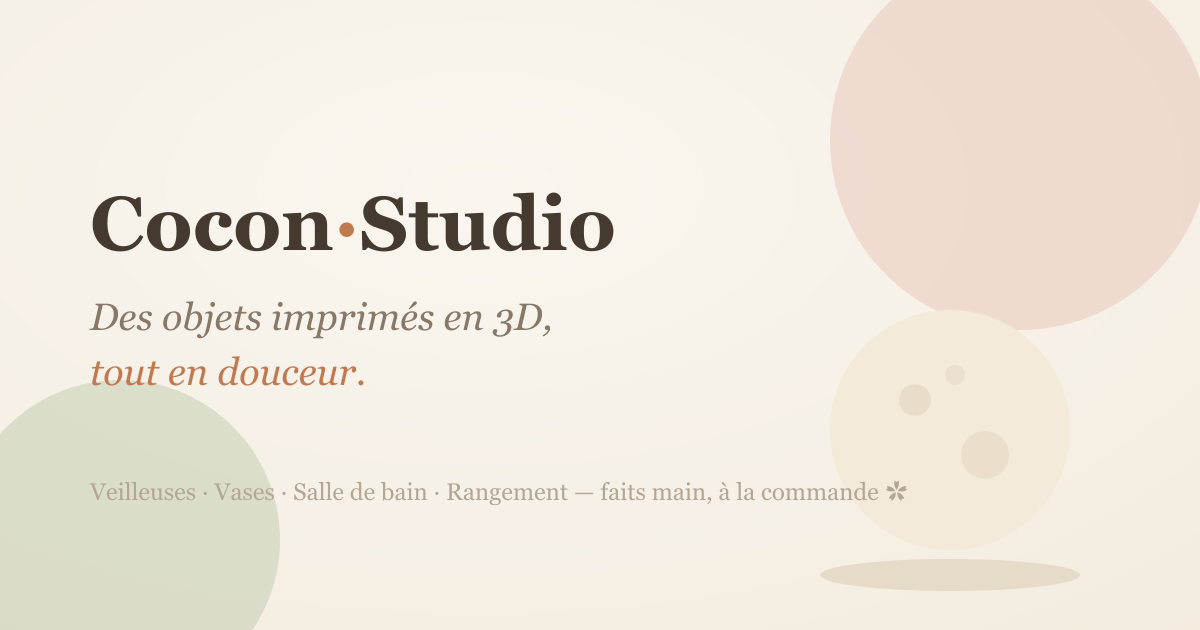
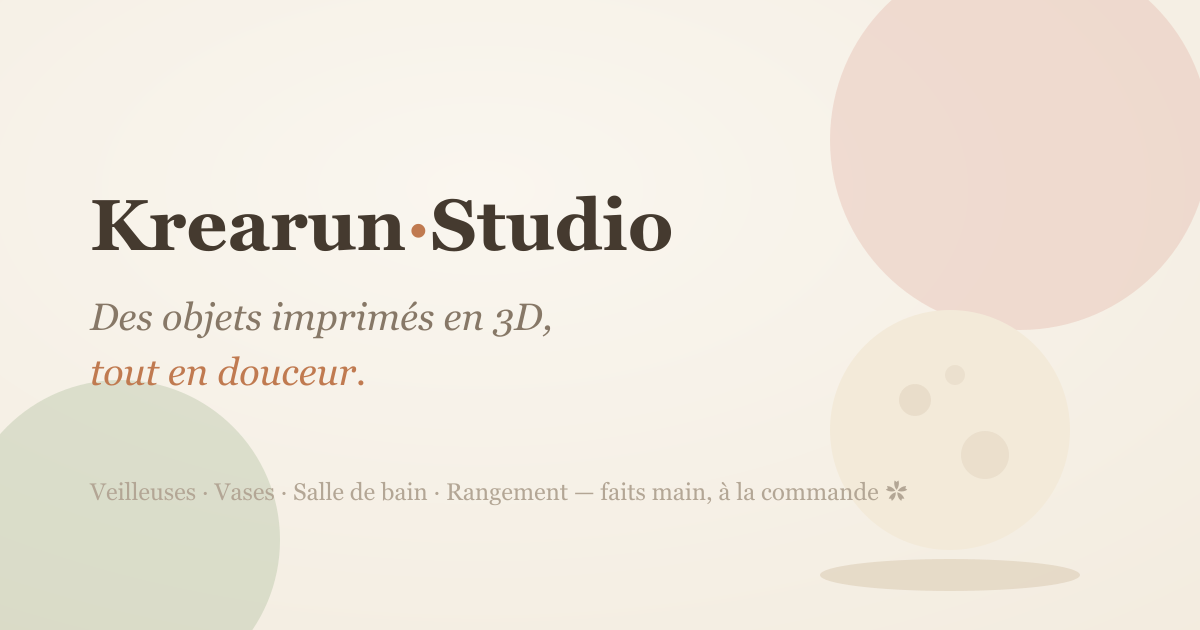
feat: renommage complet Cocon Studio → Krearun Studio
- Logo navbar/admin/login, metadata, Open Graph (og.png régénérée),
  e-mails, CGV, mentions légales, README, package.json
- Jeux de mots « cocon » adaptés (studio/atelier), 404, page à-propos
- Avis clients de l'accueil : produits réels au lieu des ex-démos
- Clés techniques renommées (cookie krearun_admin, localStorage panier
  et calculateur) — invalide les sessions/paniers de dev, sans impact prod
- Réglages PocketBase : store_name Krearun Studio, e-mail de contact mis
  à jour, lien Instagram vidé (à renseigner dans l'admin)

Changed region(s): [[0.0617, 0.3016, 0.5858, 0.4222]]

diff --git a/app/(site)/page.tsx b/app/(site)/page.tsx
@@ -7,19 +7,19 @@ export const dynamic = "force-dynamic";
 
 const avis = [
   {
-    text: "La veilleuse lune de ma fille est devenue son doudou lumineux. La matière est incroyablement douce, on sent le fait-main.",
+    text: "La lampe plissée trône sur mon buffet et tout le monde me demande d'où elle vient. La lumière du soir est d'une douceur incroyable.",
     author: "Camille R.",
-    product: "Veilleuse Lune",
+    product: "Lampe Plissée Trépied",
   },
   {
     text: "Emballage adorable, petit mot manuscrit, et le vase est encore plus beau qu'en photo. On sent l'amour du détail.",
     author: "Mathieu L.",
-    product: "Vase Ondulé",
+    product: "Vase Pétale",
   },
   {
-    text: "Mon bureau respire enfin. L'organiseur Dune est à la fois beau et malin, et les couleurs sont d'une douceur rare.",
+    text: "Le set Rivage a transformé notre salle de bain : tout est rangé, et les stries cachent vraiment les traces d'eau. Malin et beau.",
     author: "Inès B.",
-    product: "Organiseur Dune",
+    product: "Set Salle de Bain Rivage",
   },
 ];
 
@@ -227,7 +227,7 @@ export default async function HomePage() {
                 <br className="hidden sm:block" /> et beaucoup de patience.
               </h2>
               <p className="mt-5 max-w-lg leading-relaxed text-ink-soft">
-                Cocon Studio est né dans un coin de salon, entre une bobine de
+                Krearun Studio est né dans un coin de salon, entre une bobine de
                 filament crème et une tasse de thé. Chaque objet est dessiné,
                 imprimé, poncé puis emballé à la main. On fabrique lentement, en
                 petites quantités — parce que les jolies choses prennent le
@@ -244,7 +244,7 @@ export default async function HomePage() {
               {/* eslint-disable-next-line @next/next/no-img-element */}
               <img
                 src="/products/atelier.svg"
-                alt="L'atelier Cocon Studio"
+                alt="L'atelier Krearun Studio"
                 className="aspect-square w-full object-cover"
               />
             </div>

diff --git a/app/(site)/a-propos/page.tsx b/app/(site)/a-propos/page.tsx
@@ -4,7 +4,7 @@ import type { Metadata } from "next";
 export const metadata: Metadata = {
   title: "Notre atelier",
   description:
-    "L'histoire de Cocon Studio : un petit atelier familial d'impression 3D, des objets doux fabriqués lentement et à la commande.",
+    "L'histoire de Krearun Studio : un petit atelier familial d'impression 3D, des objets doux fabriqués lentement et à la commande.",
 };
 
 export default function AProposPage() {
@@ -14,7 +14,7 @@ export default function AProposPage() {
         Notre histoire
       </p>
       <h1 className="font-display text-4xl font-semibold leading-tight tracking-tight sm:text-5xl">
-        Un cocon, deux imprimantes,
+        Un petit studio, deux imprimantes,
         <br />
         et l'envie de faire doucement.
       </h1>
@@ -23,12 +23,12 @@ export default function AProposPage() {
         {/* eslint-disable-next-line @next/next/no-img-element */}
         <img
           src="/products/atelier.svg"
-          alt="L'atelier Cocon Studio"
+          alt="L'atelier Krearun Studio"
           className="aspect-video w-full object-cover"
         />
       </div>
 
-      <div className="prose-cocon mt-12 space-y-6 leading-relaxed text-ink-soft">
+      <div className="prose-krearun mt-12 space-y-6 leading-relaxed text-ink-soft">
         <p>
           Tout a commencé un dimanche pluvieux, avec une première bobine de
           filament crème et l'envie de fabriquer une veilleuse pour la chambre
@@ -52,12 +52,12 @@ export default function AProposPage() {
           signature, celle des objets qui prennent leur temps.
         </p>
         <p>
-          Merci d'être là. En choisissant Cocon Studio, vous soutenez une
+          Merci d'être là. En choisissant Krearun Studio, vous soutenez une
           petite fabrication locale et lente — et ça, ça nous touche
           énormément.
         </p>
         <p className="font-display text-xl italic text-ink">
-          — La petite famille de Cocon Studio ✿
+          — La petite famille de Krearun Studio ✿
         </p>
       </div>
 

diff --git a/lib/email.ts b/lib/email.ts
@@ -4,7 +4,7 @@
 import type { Order } from "./types";
 import { formatPrice } from "./format";
 
-const FROM = process.env.EMAIL_FROM || "Cocon Studio <[email redacted]>";
+const FROM = process.env.EMAIL_FROM || "Krearun Studio <[email redacted]>";
 
 async function sendEmail(to: string, subject: string, html: string) {
   const key = process.env.RESEND_API_KEY;
@@ -35,13 +35,13 @@ function layout(content: string): string {
 <tr><td align="center">
 <table role="presentation" width="100%" cellpadding="0" cellspacing="0" style="max-width:560px;background:#fdfaf4;border-radius:24px;overflow:hidden;">
 <tr><td style="padding:28px 40px;border-bottom:1px solid #e8dcc9;">
-  <span style="font-size:22px;font-weight:bold;">Cocon<span style="color:#c07a50;">·</span>Studio</span>
+  <span style="font-size:22px;font-weight:bold;">Krearun<span style="color:#c07a50;">·</span>Studio</span>
 </td></tr>
 <tr><td style="padding:36px 40px;font-size:15px;line-height:1.7;">
 ${content}
 </td></tr>
 <tr><td style="padding:24px 40px;border-top:1px solid #e8dcc9;font-size:12px;color:#b3a695;">
-  Cocon Studio — objets imprimés en 3D avec amour, lentement. ✿<br/>
+  Krearun Studio — objets imprimés en 3D avec amour, lentement. ✿<br/>
   Une question ? Répondez simplement à cet e-mail.
 </td></tr>
 </table>
@@ -85,7 +85,7 @@ export async function sendOrderConfirmation(order: Order) {
     `✿ Commande #${order.number} bien reçue — merci !`,
     layout(`
 <h1 style="font-size:24px;margin:0 0 16px;">Merci ${prenom}, du fond du cœur.</h1>
-<p>Votre commande <strong>#${order.number}</strong> est arrivée dans notre cocon.
+<p>Votre commande <strong>#${order.number}</strong> est arrivée dans notre atelier.
 L'imprimante va bientôt se mettre à ronronner : chaque pièce est fabriquée
 rien que pour vous, couche par couche (comptez 2 à 4 jours), puis expédiée
 en colis suivi.</p>
@@ -129,7 +129,7 @@ On espère que vos nouveaux compagnons trouvent déjà leur place.</p>
 <p>Un petit mot, une photo de l'objet installé chez ${prenom === "vous" ? "vous" : prenom},
 ou quelque chose qui n'allait pas ? Répondez à cet e-mail, on lit tout,
 et on répond toujours.</p>
-<p>À bientôt dans le cocon ✿</p>`)
+<p>À bientôt au studio ✿</p>`)
   );
 }
 

diff --git a/app/(site)/mentions-legales/page.tsx b/app/(site)/mentions-legales/page.tsx
@@ -12,11 +12,11 @@ export default function MentionsLegalesPage() {
         <section>
           <h2 className="font-display text-xl font-semibold text-ink">Éditeur du site</h2>
           <p className="mt-2">
-            Cocon Studio — [Raison sociale à compléter]
+            Krearun Studio — [Raison sociale à compléter]
             <br />
             [Adresse à compléter]
             <br />
-            SIRET : [à compléter] · E-mail : [email redacted]
+            SIRET : [à compléter] · E-mail : [email redacted]
           </p>
         </section>
         <section>
@@ -30,7 +30,7 @@ export default function MentionsLegalesPage() {
             uniquement au traitement des commandes et, avec votre accord, à
             l'envoi de notre lettre d'information. Conformément au RGPD, vous
             disposez d'un droit d'accès, de rectification et de suppression de
-            vos données : écrivez-nous à [email redacted].
+            vos données : écrivez-nous à [email redacted].
           </p>
         </section>
         <section>
@@ -45,7 +45,7 @@ export default function MentionsLegalesPage() {
           <h2 className="font-display text-xl font-semibold text-ink">Propriété intellectuelle</h2>
           <p className="mt-2">
             Les créations, visuels, textes et modèles 3D présentés sur ce site
-            sont la propriété exclusive de Cocon Studio. Toute reproduction est
+            sont la propriété exclusive de Krearun Studio. Toute reproduction est
             interdite sans autorisation écrite.
           </p>
         </section>

diff --git a/app/layout.tsx b/app/layout.tsx
@@ -19,16 +19,16 @@ const siteUrl = (process.env.NEXT_PUBLIC_SITE_URL || "http://localhost:3000").re
 export const metadata: Metadata = {
   metadataBase: new URL(siteUrl),
   title: {
-    default: "Cocon Studio — Objets imprimés en 3D, tout en douceur",
-    template: "%s · Cocon Studio",
+    default: "Krearun Studio — Objets imprimés en 3D, tout en douceur",
+    template: "%s · Krearun Studio",
   },
   description:
     "Veilleuses, vases et petits objets du quotidien imprimés en 3D dans notre atelier familial. Des pièces douces, fabriquées lentement, à la commande.",
   openGraph: {
     type: "website",
-    siteName: "Cocon Studio",
+    siteName: "Krearun Studio",
     locale: "fr_FR",
-    images: [{ url: "/og.png", width: 1200, height: 630, alt: "Cocon Studio" }],
+    images: [{ url: "/og.png", width: 1200, height: 630, alt: "Krearun Studio" }],
   },
   twitter: {
     card: "summary_large_image",

diff --git a/app/(site)/cgv/page.tsx b/app/(site)/cgv/page.tsx
@@ -5,11 +5,11 @@ export const metadata: Metadata = { title: "Conditions générales de vente" };
 const sections = [
   {
     t: "1. Objet",
-    c: "Les présentes conditions régissent les ventes conclues sur la boutique en ligne Cocon Studio, spécialisée dans la vente d'objets de décoration et d'accessoires fabriqués par impression 3D.",
+    c: "Les présentes conditions régissent les ventes conclues sur la boutique en ligne Krearun Studio, spécialisée dans la vente d'objets de décoration et d'accessoires fabriqués par impression 3D.",
   },
   {
     t: "2. Prix",
-    c: "Les prix sont indiqués en euros, toutes taxes comprises. Les frais de livraison sont précisés avant la validation de la commande. Cocon Studio se réserve le droit de modifier ses prix à tout moment ; les produits sont facturés au tarif en vigueur au moment de la commande.",
+    c: "Les prix sont indiqués en euros, toutes taxes comprises. Les frais de livraison sont précisés avant la validation de la commande. Krearun Studio se réserve le droit de modifier ses prix à tout moment ; les produits sont facturés au tarif en vigueur au moment de la commande.",
   },
   {
     t: "3. Commande et fabrication",
@@ -17,7 +17,7 @@ const sections = [
   },
   {
     t: "4. Paiement",
-    c: "Le paiement s'effectue en ligne par carte bancaire via Stripe, plateforme de paiement sécurisée. Aucune donnée bancaire n'est conservée par Cocon Studio.",
+    c: "Le paiement s'effectue en ligne par carte bancaire via Stripe, plateforme de paiement sécurisée. Aucune donnée bancaire n'est conservée par Krearun Studio.",
   },
   {
     t: "5. Livraison",

diff --git a/app/admin/login/page.tsx b/app/admin/login/page.tsx
@@ -14,7 +14,7 @@ function LoginForm() {
       className="w-full max-w-sm rounded-blob bg-cream p-10 shadow-lifted"
     >
       <p className="font-display text-2xl font-semibold">
-        Cocon<span className="text-terra">·</span>Studio
+        Krearun<span className="text-terra">·</span>Studio
       </p>
       <p className="mb-8 mt-1 text-sm text-ink-soft">
         Espace administration
@@ -63,7 +63,7 @@ function LoginForm() {
         disabled={pending}
         className="w-full rounded-full bg-ink py-3.5 text-sm font-bold text-cream transition-colors hover:bg-terra disabled:opacity-60"
       >
-        {pending ? "Connexion…" : "Entrer dans le cocon"}
+        {pending ? "Connexion…" : "Entrer dans le studio"}
       </button>
     </form>
   );

diff --git a/lib/auth.ts b/lib/auth.ts
@@ -1,11 +1,11 @@
 import { SignJWT, jwtVerify } from "jose";
 import { cookies } from "next/headers";
 
-const COOKIE_NAME = "cocon_admin";
+const COOKIE_NAME = "krearun_admin";
 
 function secret() {
   return new TextEncoder().encode(
-    process.env.AUTH_SECRET || "cocon-studio-dev-secret"
+    process.env.AUTH_SECRET || "krearun-studio-dev-secret"
   );
 }
 

diff --git a/lib/store.ts b/lib/store.ts
@@ -354,8 +354,8 @@ const DEFAULT_SETTINGS: Settings = {
   announcement: "",
   shipping_flat_cents: 590,
   free_shipping_threshold_cents: 6000,
-  store_name: "Cocon Studio",
-  contact_email: "[email redacted]",
+  store_name: "Krearun Studio",
+  contact_email: "[email redacted]",
   instagram: "",
 };
 

diff --git a/app/(site)/boutique/[slug]/page.tsx b/app/(site)/boutique/[slug]/page.tsx
@@ -57,7 +57,7 @@ export default async function ProductPage({
     ),
     url: `${siteUrl}/boutique/${product.slug}`,
     category: categoryLabel,
-    brand: { "@type": "Brand", name: "Cocon Studio" },
+    brand: { "@type": "Brand", name: "Krearun Studio" },
     offers: {
       "@type": "Offer",
       price: (product.priceCents / 100).toFixed(2),

diff --git a/app/(site)/commande/succes/page.tsx b/app/(site)/commande/succes/page.tsx
@@ -26,7 +26,7 @@ export default async function SuccesPage({
         Merci, du fond du cœur
       </h1>
       <p className="mx-auto mt-4 max-w-md leading-relaxed text-ink-soft">
-        Votre commande est bien arrivée dans notre cocon.
+        Votre commande est bien arrivée dans notre atelier.
         {order && (
           <>
             {" "}

diff --git a/app/(site)/suivi/page.tsx b/app/(site)/suivi/page.tsx
@@ -14,7 +14,7 @@ const field =
   "w-full rounded-full border border-sand bg-cream px-5 py-3.5 text-sm outline-none transition-colors placeholder:text-ink-faint focus:border-terra";
 
 const STEPS: { status: OrderStatus; label: string; icon: string; text: string }[] = [
-  { status: "paid", label: "Commande reçue", icon: "✿", text: "Votre commande est bien arrivée dans notre cocon." },
+  { status: "paid", label: "Commande reçue", icon: "✿", text: "Votre commande est bien arrivée dans notre atelier." },
   { status: "preparing", label: "En fabrication", icon: "🖨️", text: "L'imprimante ronronne : votre pièce naît couche par couche." },
   { status: "shipped", label: "En route", icon: "📦", text: "Emballée avec soin, votre commande voyage vers vous." },
   { status: "delivered", label: "Livrée", icon: "🏡", text: "Bienvenue à la maison ! On espère qu'elle vous plaît." },